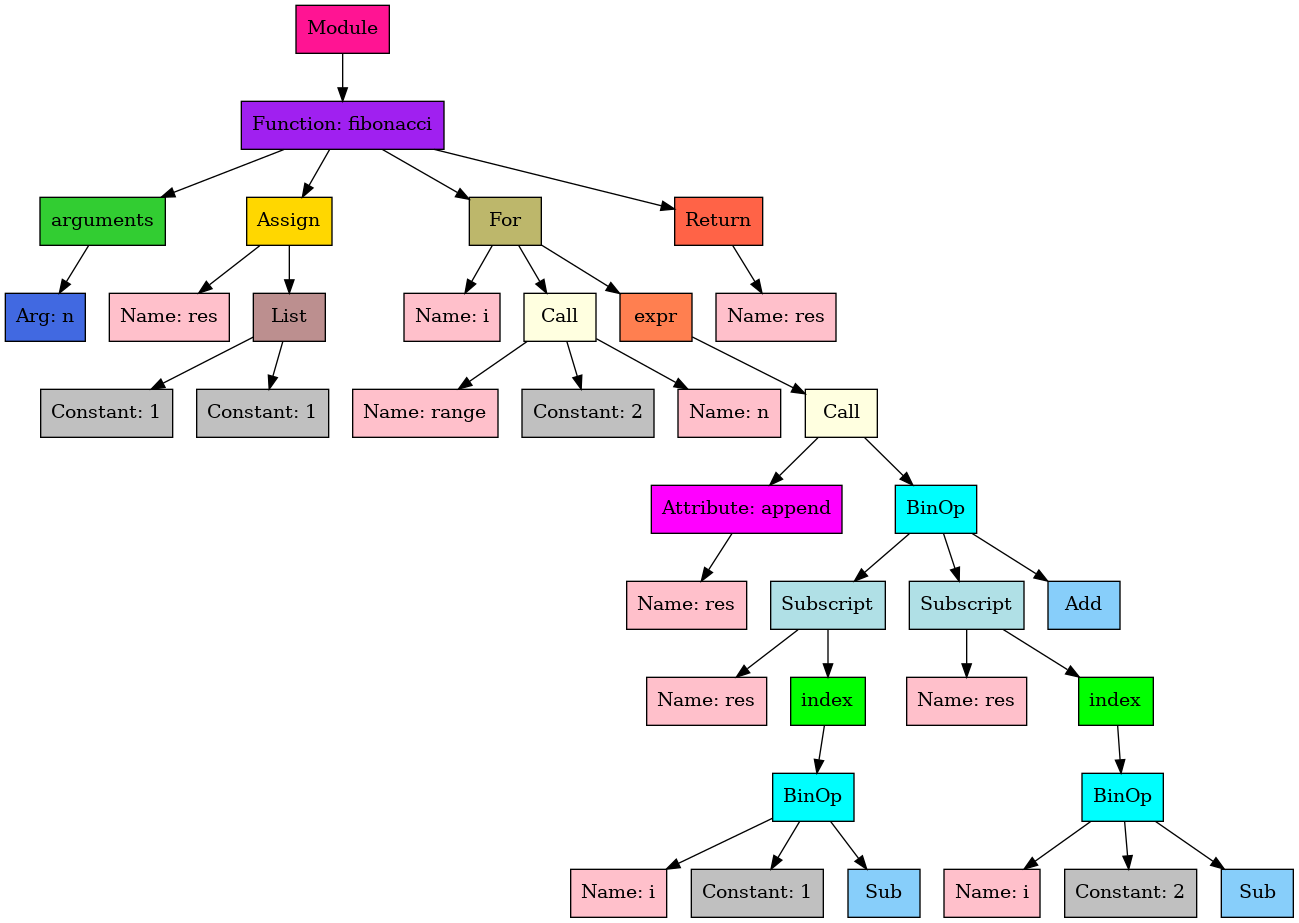
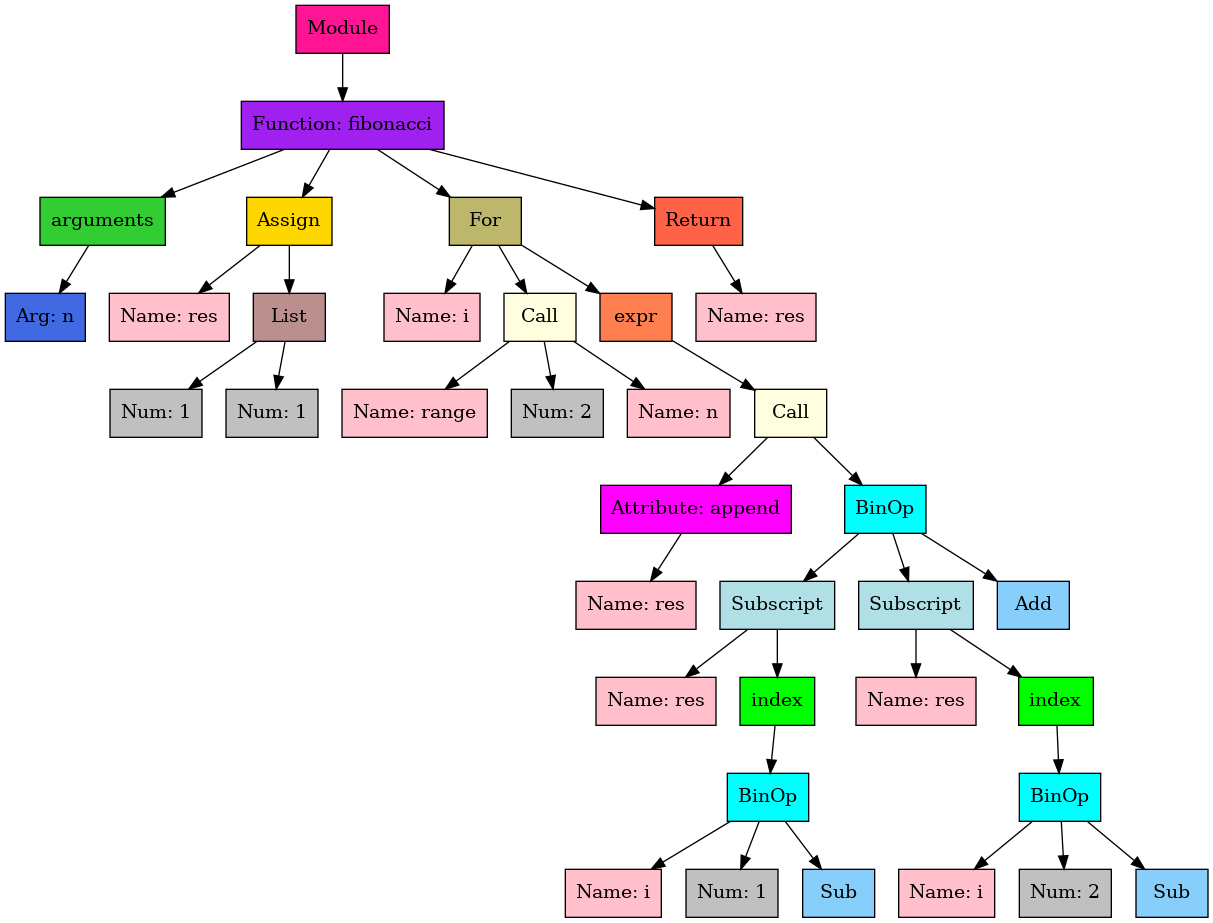
fix lib

diff --git a/hw_01/src/ast_graph.py b/hw_01/src/ast_graph.py
@@ -44,8 +44,8 @@ class AstGraph(ast.NodeVisitor):
             self.graph.add_edge(node, self.visit(element))
         return node
 
-    def visit_Constant(self, node):
-        self.graph.add_node(node, shape='box', label=f'Constant: {node.value}', fillcolor='gray', style='filled')
+    def visit_Num(self, node):
+        self.graph.add_node(node, shape='box', label=f'Num: {node.value}', fillcolor='gray', style='filled')
         return node
 
     def visit_For(self, node):

diff --git a/hw_01/src/main.py b/hw_01/src/main.py
@@ -9,4 +9,4 @@ if __name__ == "__main__":
     ast_object = ast.parse(inspect.getsource(fibonacci))
     ast_graph = AstGraph()
     ast_graph.visit(ast_object)
-    nx.drawing.nx_pydot.to_pydot(ast_graph.graph).write_png("hw_01/artifacts/ast.png")
+    nx.drawing.nx_pydot.to_pydot(ast_graph.graph).write_png("artifacts/ast.png")

diff --git a/hw_02/main.py b/hw_02/main.py
@@ -1,5 +1,5 @@
 import os
-from lizahwliblove.main import draw_ast
+from lizaliblove.main import draw_ast
 
 
 def generate_begin():

diff --git a/hw_02/artifacts/README.md b/hw_02/artifacts/README.md
@@ -1,3 +1,3 @@
 # Ссылка на репозиторий в PyPi:
 
-[lizahwliblove 0.0.1 ](https://pypi.org/project/lizahwliblove/0.0.1/)
+[lizaliblove 0.0.1 ](https://pypi.org/project/lizaliblove/0.0.1/)
